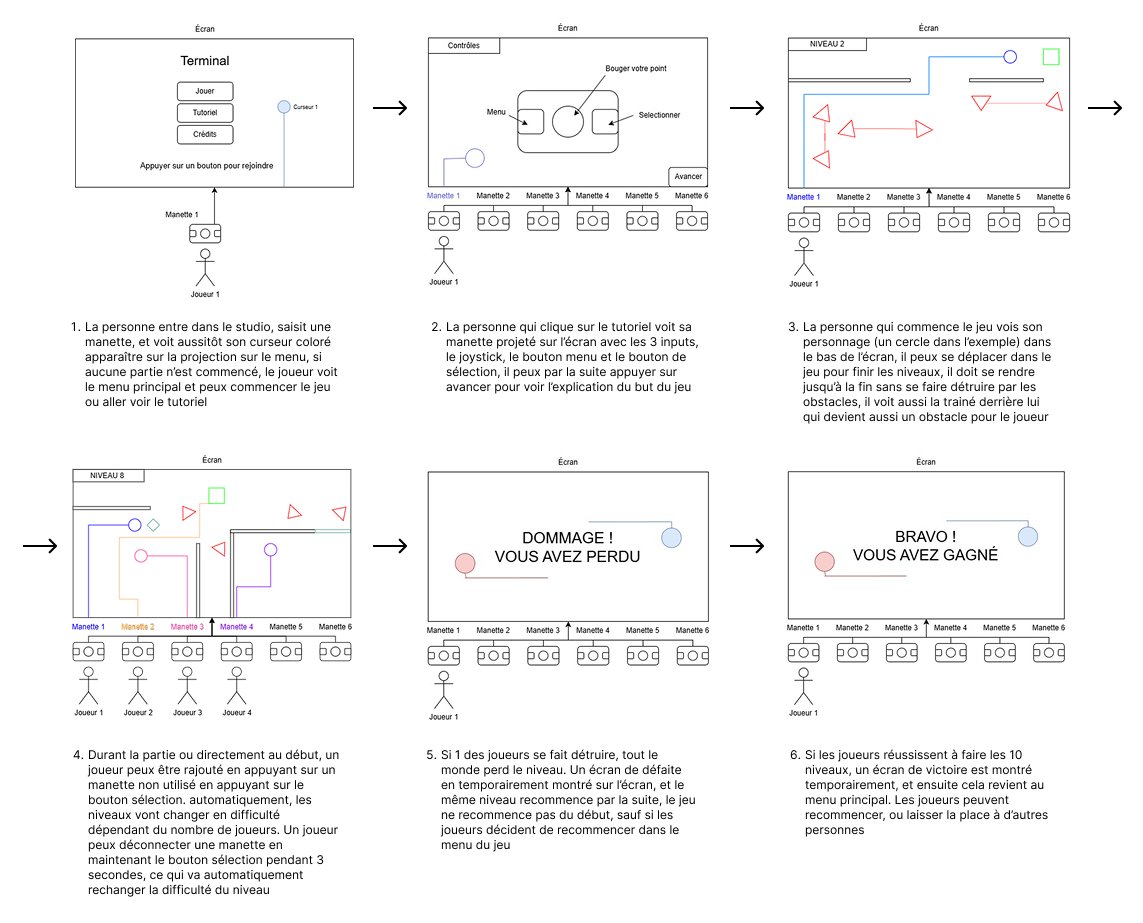
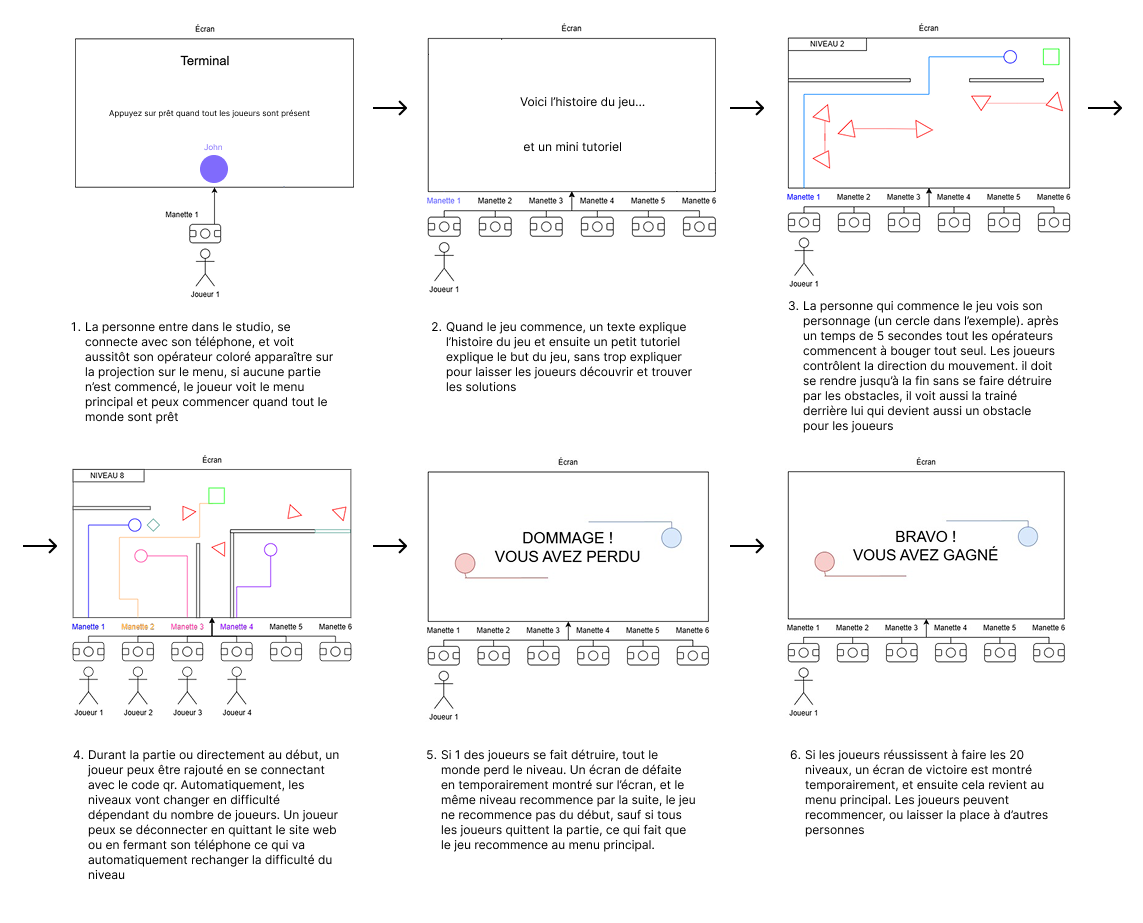
modifications sites

diff --git a/concept/README.md b/concept/README.md
@@ -24,11 +24,11 @@
 
 ## L'expérience
 
-En entrant dans le grand studio, les personnes prennent une manette et regardent la projection sur le mur. L écran affiche une courte intro et explique les bases en quelques secondes. La partie démarre avec un niveau tutoriel: chacun bouge son curseur, une ligne suit sa trajectoire et devient un obstacle pour les autres. Les joueurs réalisent vite qu ils doivent communiquer, se laisser de l espace et s entraider pour ouvrir des passages. Si quelqu un est éliminé, tout le monde recommence le niveau: on apprend par essais et erreurs, ensemble. Plus on avance, plus les niveaux combinent de nouvelles mécaniques et montent en difficulté, créant des moments de tension, de rire et de coopération.
+En entrant dans le grand studio, les personnes lisent le cartel sur notre projet qui a les instructions. Les joueurs devront se connecter sur le routeur et balayer le code QR pour entrer dans le jeu. Quand tous les joueurs auront appuyé sur prêt, l'écran affiche une courte intro et explique les bases en quelques secondes. La partie démarre au niveau 1, les joueurs réalisent vite qu'ils doivent communiquer, car quand ils se déplacent, une ligne permanente derrière leur opérateur devient un obstacle pour les autres. Si quelqu'un est éliminé, tout le monde recommence le niveau. Les joueurs apprennent par essais et erreurs. Plus ils avancent, plus les niveaux combinent de nouvelles mécaniques comme des portes et des obstacles qui bougent et montent en difficulté.
 
 ### Le parcours de l'interacteur
 
-En entrant dans le studio, l'interacteur prend une manette et voit son curseur coloré apparaître sur la projection. Les premiers niveaux tutoriels lui montre l'essentiel: se déplacer au joystick et maintenir un bouton pour activer des éléments. Il expérimente, réalise que sa trace reste et devient un obstacle, puis ajuste sa trajectoire et son rythme. Très vite, il se coordonne avec les autres: annoncer son passage, ouvrir un bouton-porte pour un coéquipier, attendre la bonne fenêtre de timing face aux obstacles mobiles. À chaque élimination, toute l'équipe redémarre, ce qui pousse à observer, proposer une stratégie et mieux se synchroniser. De niveau en niveau, il découvre une nouvelle mécanique, combine celles déjà apprises, gagne en précision et en communication, jusqu'à ce que les six joueurs franchissent ensemble la sortie et enchaînent vers un niveau plus exigeant.
+En entrant dans le studio, l'interacteur se connecte à notre jeu et voit son opérateur (cercle de couleur avec son nom au-dessus) sur le menu principal qui est affiché sur la projection. Son téléphone devient une manette, avec un fond d'écran qui a la même couleur et son nom, avec seulement un bouton « Prêt » au centre. Quand tous les joueurs ont appuyé sur prêt, une intro rapide explique l'histoire du jeu et ensuite un petit tutoriel explique seulement le but du jeu. Par la suite, le premier niveau commence. Ils expérimentent, réalisent que leur trace reste et devient un obstacle pour tout le monde. Très vite, ils se coordonnent avec les autres opérateurs : ils annoncent leur passage, ouvrent des portes pour un coéquipier et esquivent des obstacles. À chaque élimination, toute l'équipe redémarre le niveau, ce qui pousse à observer, proposer une stratégie et mieux se synchroniser. De niveau en niveau, ils découvrent une nouvelle mécanique, combinent celles déjà apprises, gagnent en précision et en communication, jusqu'à ce que tous les joueurs franchissent ensemble la sortie et enchaînent vers un niveau plus difficile. Quand un joueur décide d'arrêter de jouer, il ferme la page et/ou son téléphone et peut ensuite partir.
 
 <!--
 Comportement de l’interacteur
@@ -38,7 +38,7 @@ un résumé du parcours de l'interacteur du début à la fin de son expérience 
 
 ### L'espace
 
-Le projet se déroule dans le grand studio avec une large projection au mur. Au sol, une zone dégagée permet aux joueurs de se regrouper devant l'écran, tandis que six manettes sont posées sur une table (ou distribuées) près de l'entrée. La lumière est douce pour garder le focus sur l'image projetée, et le son provient de haut-parleurs proches de l'écran pour renforcer la sensation d'immersion. Dans l'espace virtuel, l'aire de jeu est claire et contrastée: chaque joueur a une couleur distincte, son curseur est bien visible et sa trace l'est aussi. Les éléments interactifs (boutons, portes, obstacles mobiles) sont lisibles à distance et répondent immédiatement aux actions des manettes. Le réel et le virtuel se rejoignent simplement: la manette contrôle directement le curseur de même couleur, les retours visuels et sonores confirment chaque action.
+Le projet se déroule dans le grand studio avec une large projection au mur. Au sol, une zone dégagée permet aux joueurs de se regrouper devant l'écran, tandis qu’un podium est situé à l'avant de notre espace avec les instructions. Des LEDs seront disposées à plusieurs endroits pour illuminer notre espace et le podium. Des bâtons lumineux seront aussi présents à côté de l'écran et réagiront au jeu. Le son provient de haut-parleurs proches de l'écran qui seront sur trépieds. Dans l'espace virtuel, l'aire de jeu est claire et contrastée, chaque joueur a une couleur distincte et un nom qui lui est propre. Les éléments interactifs (boutons, portes, obstacles mobiles) sont facilement distinctables et intuitifs pour faciliter la compréhension. Le réel et le virtuel se rejoignent simplement par le contrôle des manettes réelles, qui changent l'environnement et les opérateurs dans le jeu virtuel grâce au son, aux lumières et à la projection sur le mur.
 
 <!--
 description de l'espace réel et virtuel du projet et comment l'espace réel est transposé, transorté ou prolongé dans le virtuel et inversement
@@ -46,13 +46,13 @@ description de l'espace réel et virtuel du projet et comment l'espace réel est
 
 ### La progression
 
-Le premier niveau est un petit tutoriel. Ensuite, à chaque nouveau niveau, les joueurs découvre une nouvelle mécanique. Une fois toutes les mécaniques présentées, les niveaux suivants les combinent, idéalement générés aléatoirement. Plus on avance, plus les niveaux deviennent difficiles.
+Le premier niveau sera facile. Ensuite, au fur et à mesure des nouveaux niveaux, les joueurs découvriront de nouvelles mécaniques. Une fois toutes les mécaniques présentées, les niveaux suivants les combinent. Plus on avance, plus les niveaux deviennent difficiles.
 
 <!--  sur le temps et la progression -->
 
 ### L'aspect collectif
 
-**_TERMINAL_** est pensé pour le collectif: jusqu'à six personnes jouent en même temps, avec un objectif unique et partagé. Chaque joueur contrôle un curseur, mais la trace qu'il laisse influence tout le groupe. La réussite dépend de la coordination: ouvrir un passage pour un autre, attendre son tour, choisir qui mène et qui sécurise. Si une personne est éliminée, tout le monde recommence: la responsabilité est vraiment commune. Le level design encourage la coopération avec des boutons à tenir, des timings à synchroniser et des zones étroites à négocier ensemble. Le projet transforme un groupe d'individus en une équipe qui apprend, s'ajuste et progresse ensemble.
+***TERMINAL*** est pensé pour le collectif, jusqu'à six personnes jouent en même temps, avec un objectif unique et partagé. Chaque joueur contrôle un opérateur dans une équipe qui essaie de se connecter au terminal qui a été piraté, mais la trace qu'il laisse influence tout le groupe. La réussite dépend de la coordination, ouvrir un passage pour un autre, éviter les obstacles et peut-être même choisir une personne qui mènera le groupe. Si une personne est éliminée, tout le monde recommence, la responsabilité est vraiment commune. Le level design encourage la coopération avec des boutons à activer, attendre qu'un joueur ouvre une porte avant de sortir. Le projet transforme un groupe d'individus en une équipe qui apprend, s'ajuste et progresse ensemble.
 
 <!--
 comment votre idée de projet correspond au thème du COLLECTIF
@@ -65,9 +65,7 @@ Un collectif désigne l'ensemble de personnes ou d'entités qui s'unissent de ma
 
 ### L'aspect social
 
-Dans **_TERMINAL_**, de un à six opérateurs se connectent à un ancien système informatique en veille, vestige d’un réseau oublié. Leur mission : réactiver les passerelles du terminal et rétablir la circulation des données perdues. Chaque niveau correspond à un secteur corrompu qu’il faut restaurer en atteignant la sortie, tout en évitant les pièges, les zones d’erreur et les fragments instables du code.
-
-Chaque mouvement laisse une trace lumineuse persistante, une ligne de données qui façonne le monde mais peut aussi le bloquer. Les joueurs doivent donc planifier, communiquer et ajuster leurs trajectoires pour ne pas piéger les autres. Seul, l’interacteur affronte la logique du système ; à plusieurs, ils apprennent à synchroniser leurs actions pour reconstruire l’ordre du réseau.
+Dans ***TERMINAL***, de un à six opérateurs se connectent à un ancien système informatique qui a été compromis par un fameux pirate, vestige d’un réseau oublié. Leur mission est de réparer le terminal afin de restaurer toutes les données qui ont été corrompues. Chaque niveau correspond à un secteur du réseau que l'équipe essaie de restaurer en atteignant l'objectif, tout en évitant les pièges laissés par le pirate et les zones dangereuses du système. Chaque mouvement laisse une trace persistante. Les joueurs doivent donc planifier, communiquer et ajuster leurs trajectoires pour ne pas piéger les autres.
 
 <!--
 comment votre idée de projet correspond au thème du SOCIAL
@@ -79,14 +77,6 @@ Le terme « social » désigne ce qui concerne la vie en société, c’est-à-d
 -->
 
 ## Inspirations visuelles et sonores
-
-<iframe width="560" height="315"
-  src="https://www.youtube.com/embed/vQTmKqbrNu8?si=gHKiRMcFw6PKaG9J&amp;start=58"
-  title="YouTube video"
-  frameborder="0"
-  allowfullscreen>
-</iframe>
-
 <iframe width="560" height="315"
   src="https://www.youtube.com/embed/XEp8G2HtDJM?si=REjQSpy_p-t_N__c"
   title="YouTube video"
@@ -94,11 +84,19 @@ Le terme « social » désigne ce qui concerne la vie en société, c’est-à-d
   allowfullscreen>
 </iframe>
 
-![](inspirations.webp)
+![](image2.jpg)
+![](image4.png)
+![](insp_interactives_01.png)
+![](terminal-games-nsnake.webp)
 
-![](controller.webp)
+### Manettes sur téléphone:
+![](manette.png)
 
-![](palette.webp)
+### Couleur du jeu et des menus:
+![](palette.png)
+
+### Couleur des joueurs:
+![](palette2.png)
 
 [SFX Menu](sfx_menu.mp3)
 [SFX Interface](sfx_interface.mp3)

diff --git a/maquette/README.md b/maquette/README.md
@@ -54,6 +54,8 @@
 
 - Multiprise / rallonge électrique – Pour alimenter l’ensemble du système.
 
+- Lumière plafond spotlight
+
 - Lumière Baton (2-4): Mettre de la lumière d'ambiance qui change avec une donné en boucle
 
 - Boite de lumière (1): Permet de brancher les lumière en daisy chain et les reliers à l'ordinateur
@@ -100,10 +102,6 @@
 | Nom du produit         | Image                                                                                                                                                                                                    | Quantités | Prix avec taxes |
 | ---------------------- | -------------------------------------------------------------------------------------------------------------------------------------------------------------------------------------------------------- | --------- | --------------- |
 | Pouf gonflable         | [![](bean-bag.webp)](https://www.walmart.ca/en/ip/Boovnll-Bean-Bag-Chair-Soft-Comfortable-Portable-Foldable-Lazy-Sofa-Polyester-Chairs-Adults-Inflatable-Chair-Living-Room-Bedroom-Reading/51GE8UZ5TOCL) | 6         | 275,94$         |
-| Néon customisé         | [![](custom_neon.webp)](https://a.co/d/8bzLbKP)                                                                                                                                                          | 1         | 45$             |
 | Podium code Qr         | [![](podium.jpg)](https://www.wayfair.ca/fr/mobilier/pdp/ebern-designs-presentoir-avec-rangement-chene-noir-122-x-118-x-236-po-c114153473.html)                                                          | 1         | 110 $           |
-| Router                 | ![](router.avif)                                                                                                                                                                                         | 1         | 100$            |
-| Stand code Qr          | [![](stand.jpg)](https://a.co/d/52iNiN9)                                                                                                                                                                 | 1         | 15$             |
-| Lumière led hexagonale | [![](wall_pad.jpg)](https://a.co/d/cRkUssI)                                                                                                                                                              | 8 unités  | 50$             |
-| Tapis                  | [![](tapis.jpg)](https://share.google/MT5k9eNRZ9BZiHwNd)                                                                                                                                                 | 1         | 30$             |
-| Total                  |                                                                                                                                                                                                          |           | 625,94$         |
+| Router                 | ![](router.jpg)                                                                                                                                                                                         | 1         | 160$            |
+| Total                  |                                                                                                                                                                                                          |           | 545,94$         |

diff --git a/README.md b/README.md
@@ -7,9 +7,7 @@
 
 Ce site présente le projet ***TERMINAL***, depuis l’idée de départ jusqu’à la réalisation finale: l’équipe, les maquettes, l’expérience de jeu et bien d’autres détails.
 
-***TERMINAL*** est un jeu collaboratif pouvant accueillir jusqu’à 6 joueurs. Chaque joueur contrôle un curseur à l’aide d’une manette. Lorsqu’ils se déplacent, une ligne suit leur trajectoire et devient un obstacle pour les autres.
-L’objectif est que les six joueurs atteignent la fin du niveau sans être éliminés par les obstacles ou par les traces laissées par les autres. En cas d’élimination, tous les joueurs doivent recommencer le niveau depuis le début.
-Au fur et à mesure de la progression, les niveaux deviennent de plus en plus complexes, introduisant par exemple des boutons qui ouvrent des passages pour les autres, des obstacles mobiles et bien plus encore.
+***TERMINAL*** est un jeu collaboratif pouvant accueillir jusqu’à 6 joueurs. Chaque joueur contrôle un opérateur, grâce à la manette sur leur téléphone, qui essaie de trouver l'accès au vieux réseau internet afin de restaurer les données qui ont été corrompues par une cyberattaque orchestrée par un fameux pirate informatique. Lorsque les joueurs vont se déplacer, une ligne suit leur trajectoire et devient un obstacle pour les autres opérateurs. L’objectif est que tous les joueurs atteignent la fin des niveaux sans être éliminés par les obstacles laissés dans le réseau par le pirate ou par les traces laissées par les autres. En cas d’élimination, tous les joueurs doivent recommencer le niveau depuis le début. Au fur et à mesure de la progression, les niveaux deviennent de plus en plus complexes, introduisant par exemple des boutons qui ouvrent des passages pour les autres, des obstacles mobiles et bien plus encore.
 
 <!-- Présentation de ce qu'est ce site et résumé du projet en un paragraphe, toujours à jour-->
 
